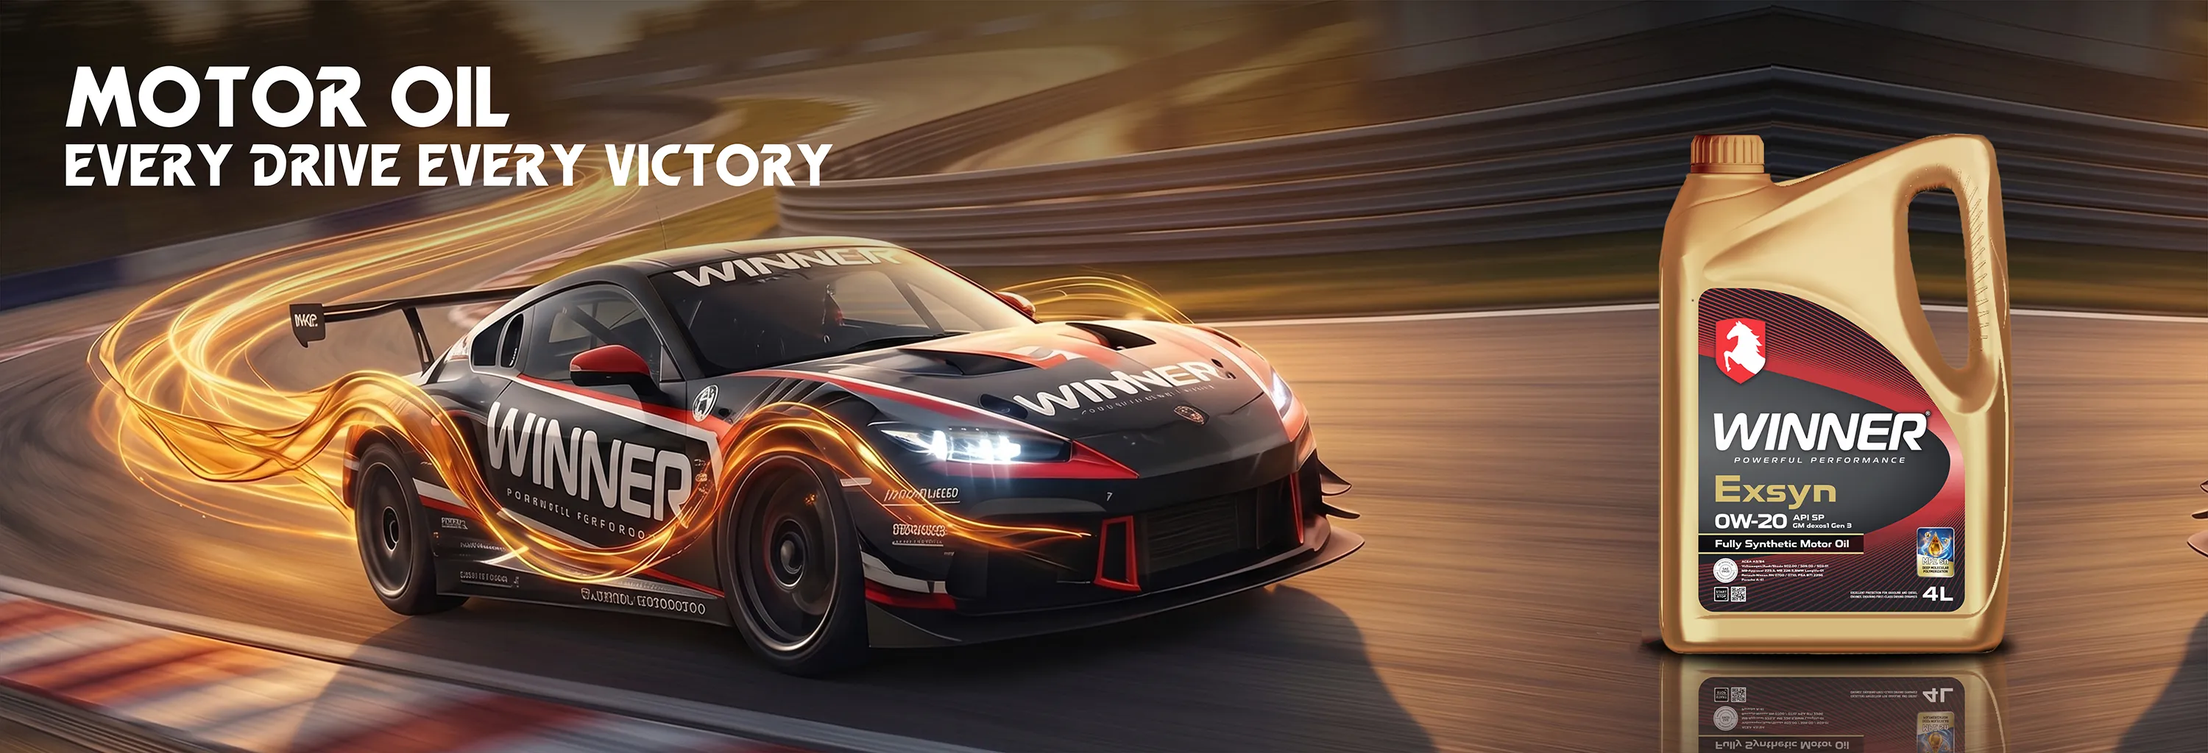
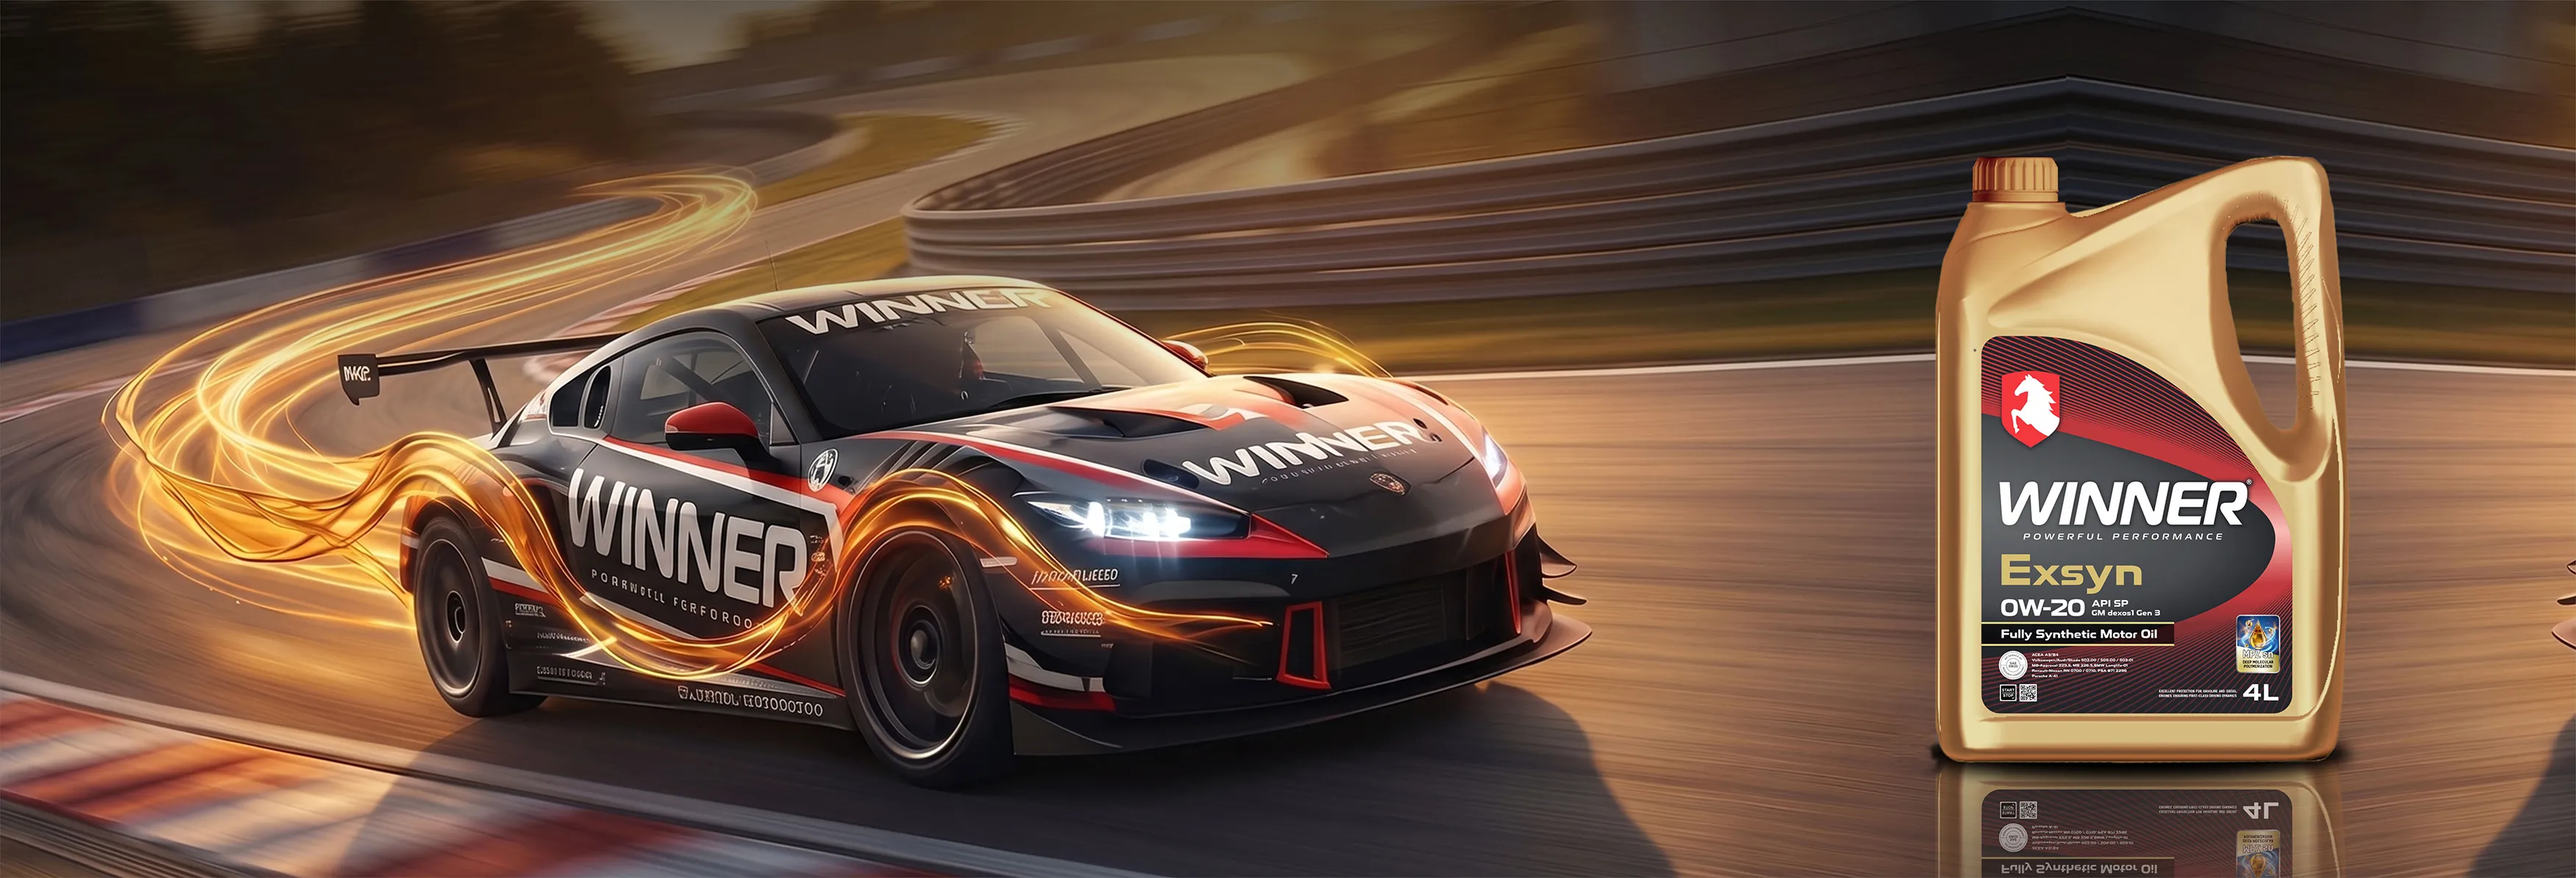
Add

diff --git a/src/components/hero/hero.scss b/src/components/hero/hero.scss
@@ -1,3 +1,172 @@
+// @use "../../styles/variables" as *;
+// @use "../../styles/mixins" as *;
+
+// .hero {
+//     margin-top: 90px;
+//     position: relative;
+
+//     @media (max-width: 1210px) {
+//         margin-top: 73.5px;
+//     }
+
+//     &__swiper {
+//         width: 100%;
+//     }
+
+//     &__slide {
+//         background-repeat: no-repeat;
+//         background-size: cover;
+//         background-position: center;
+//         height: 650px;
+//         display: flex;
+//         align-items: center;
+
+//         @media (max-width:1500px) {
+//             height: 500px;
+//         }
+
+//         @media (max-width:768px) {
+//             height: 450px;
+//         }
+
+//         &-info {
+//             display: flex;
+//             align-items: center;
+//             justify-content: flex-start;
+
+//             &-text {
+//                 font-size: 42px;
+//                 font-weight: 800;
+//                 color: white;
+//                 width: 50%;
+
+//             }
+//         }
+//     }
+
+//     &__container {
+//         display: flex;
+//         flex-direction: column;
+//         align-items: flex-start;
+//         justify-content: center;
+//         gap: 16px;
+//         height: 100%;
+//         padding-top: 40px;
+//         padding-bottom: 40px;
+//         box-sizing: border-box;
+
+//         &-title,
+//         &-text,
+//         &-btn {
+//             opacity: 0;
+//             transform: translateY(30px);
+//         }
+
+//         &-title {
+//             font-size: 46px;
+//             line-height: 56px;
+//             color: $white;
+//             width: 60%;
+//             margin: 0;
+
+//             @media (max-width:1500px) {
+//                 width: 60%;
+//                 @include title;
+//             }
+
+//             @media (max-width:768px) {
+//                 width: 90%;
+//                 font-size: 28px;
+//                 line-height: 34px;
+//             }
+//         }
+
+//         &-text {
+//             font-size: 18px;
+//             font-weight: 400;
+//             color: $white;
+//             letter-spacing: 1px;
+//             line-height: 24px;
+
+//             @media (max-width:768px) {
+//                 @include subtitle;
+//                 margin: 0;
+//                 width: 90%;
+//             }
+//         }
+
+//         &-btn {
+//             padding: 16px 30px;
+//             font-size: 16px;
+//             font-weight: 600;
+//             letter-spacing: 1px;
+//             border: 1px solid $primary;
+//             background-color: $primary;
+//             color: $white;
+//             border-radius: 4px;
+//             margin-top: 6px;
+//             cursor: pointer;
+
+//             @media (max-width:1500px) {
+//                 @include button;
+//                 margin-top: 6px;
+//             }
+//         }
+//     }
+
+//     .swiper-slide-active {
+//         .hero__container-title {
+//             animation: fadeUp 0.8s ease forwards 0.3s;
+//         }
+
+//         .hero__container-text {
+//             animation: fadeUp 0.8s ease forwards 0.5s;
+//         }
+
+//         .hero__container-btn {
+//             animation: fadeUp 0.8s ease forwards 0.7s;
+//         }
+//     }
+
+//     .swiper-pagination-bullet {
+//         width: 10px;
+//         height: 10px;
+//         background: $white;
+//         opacity: 0.6;
+//         transition: all 0.3s ease;
+
+//         &-active {
+//             opacity: 1;
+//             width: 24px;
+//             border-radius: 6px;
+//             background: $primary;
+//         }
+//     }
+
+//     .swiper-button-next,
+//     .swiper-button-prev {
+//         color: $white;
+//         transition: opacity 0.3s ease;
+
+//         &::after {
+//             font-size: 22px;
+//         }
+//     }
+// }
+
+// @keyframes fadeUp {
+//     from {
+//         opacity: 0;
+//         transform: translateY(30px);
+//     }
+
+//     to {
+//         opacity: 1;
+//         transform: translateY(0);
+//     }
+// }
+
+
 @use "../../styles/variables" as *;
 @use "../../styles/mixins" as *;
 
@@ -19,7 +188,7 @@
         background-position: center;
         height: 650px;
         display: flex;
-        align-items: center;
+        align-items: flex-start; // markazdan emas — tepadan boshlanadi
 
         @media (max-width:1500px) {
             height: 500px;
@@ -27,6 +196,44 @@
 
         @media (max-width:768px) {
             height: 450px;
+        }
+
+        &-info {
+            display: flex;
+            align-items: flex-start;
+            justify-content: flex-start;
+            padding-top: 60px; // rasmdagidek yuqoridan bo'shliq
+
+            @media (max-width: 1500px) {
+                padding-top: 45px;
+            }
+
+            @media (max-width: 768px) {
+                padding-top: 30px;
+            }
+
+            &-text {
+                // font-family: 'Fredoka', sans-serif;
+                font-size: 48px;
+                font-weight: 800;
+                text-transform: uppercase;
+                letter-spacing: 1.5px;
+                line-height: 1.1;
+                color: white;
+                width: 55%;
+                margin: 0;
+                text-shadow: 0 2px 12px rgba(0, 0, 0, 0.4);
+
+                @media (max-width: 1500px) {
+                    font-size: 42px;
+                    width: 50%;
+                }
+
+                @media (max-width: 768px) {
+                    font-size: 22px;
+                    width: 90%;
+                }
+            }
         }
     }
 
@@ -49,6 +256,7 @@
         }
 
         &-title {
+            font-family: 'Fredoka', sans-serif;
             font-size: 46px;
             line-height: 56px;
             color: $white;

diff --git a/src/components/hero/Hero.jsx b/src/components/hero/Hero.jsx
@@ -1,3 +1,69 @@
+// import { Swiper, SwiperSlide } from "swiper/react";
+// import { Autoplay, Pagination, Navigation } from "swiper/modules";
+
+// import "swiper/css";
+// import "swiper/css/pagination";
+// import "swiper/css/navigation";
+
+// import heroImg1 from "../../assets/images/hero/bannerOne.webp";
+// import heroImg2 from "../../assets/images/hero/bannerTwo.webp";
+// import heroImg3 from "../../assets/images/hero/bannerThree.webp";
+
+// import "./hero.scss";
+
+// const slides = [
+//     {
+//         image: heroImg1,
+//         title: "MOTOR OIL EVERY DRIVE EVERY VICTORY",
+//         text: "Explore our full range of advanced automotive fluids.",
+//     },
+//     {
+//         image: heroImg2,
+//         title: "DIESEL ENGINE OIL POWER FOR EVERY LOAD",
+//         text: "Premium lubricants trusted by professionals worldwide.",
+//     },
+//     {
+//         image: heroImg3,
+//         title: "TRANSMISSION FLUID SHIFT WITH CONFIDENCE",
+//         text: "Advanced formulas designed to protect your engine.",
+//     }
+// ];
+
+// function Hero() {
+//     return (
+//         <section className="hero">
+//             <Swiper
+//                 modules={[Autoplay, Pagination, Navigation]}
+//                 speed={1000}
+//                 loop={true}
+//                 autoplay={{
+//                     delay: 4000,
+//                     disableOnInteraction: false,
+//                 }}
+//                 pagination={{ clickable: true }}
+//                 className="hero__swiper"
+//             >
+//                 {slides.map((slide, index) => (
+//                     <SwiperSlide key={index}>
+
+//                         <div
+//                             className="hero__slide"
+//                             style={{ backgroundImage: `url(${slide.image})` }}
+//                         >
+//                             <div className="hero__slide-info container">
+//                                 <h3 className="hero__slide-info-text">{slide.title}</h3>
+//                             </div>
+//                         </div>
+//                     </SwiperSlide>
+//                 ))}
+//             </Swiper>
+//         </section>
+//     );
+// }
+
+// export default Hero;
+
+
 import { Swiper, SwiperSlide } from "swiper/react";
 import { Autoplay, Pagination, Navigation } from "swiper/modules";
 
@@ -14,17 +80,17 @@ import "./hero.scss";
 const slides = [
     {
         image: heroImg1,
-        title: "THE POWER OF PERFORMANCE. ENGINEERED TO WIN.",
+        title: "MOTOR OIL EVERY DRIVE EVERY VICTORY",
         text: "Explore our full range of advanced automotive fluids.",
     },
     {
         image: heroImg2,
-        title: "BUILT FOR EXTREME CONDITIONS.",
+        title: "TRANSMISSION FLUID SHIFT WITH CONFIDENCE",
         text: "Premium lubricants trusted by professionals worldwide.",
     },
     {
         image: heroImg3,
-        title: "INNOVATION IN EVERY DROP.",
+        title: "DIESEL ENGINE OIL POWER FOR EVERY LOAD",
         text: "Advanced formulas designed to protect your engine.",
     }
 ];
@@ -45,10 +111,14 @@ function Hero() {
             >
                 {slides.map((slide, index) => (
                     <SwiperSlide key={index}>
+
                         <div
                             className="hero__slide"
                             style={{ backgroundImage: `url(${slide.image})` }}
                         >
+                            <div className="hero__slide-info container">
+                                <h3 className="hero__slide-info-text">{slide.title}</h3>
+                            </div>
                         </div>
                     </SwiperSlide>
                 ))}

diff --git a/index.html b/index.html
@@ -5,6 +5,10 @@
   <meta charset="UTF-8" />
   <link rel="icon" type="image/svg+xml" href="./src/assets/icons/index.png" />
   <meta name="viewport" content="width=device-width, initial-scale=1.0" />
+  <link rel="preconnect" href="https://fonts.googleapis.com">
+  <link rel="preconnect" href="https://fonts.gstatic.com" crossorigin>
+  <link href="https://fonts.googleapis.com/css2?family=Fredoka:wght@600;700&family=Bungee&display=swap"
+    rel="stylesheet">
   <title>winner</title>
 </head>
 
